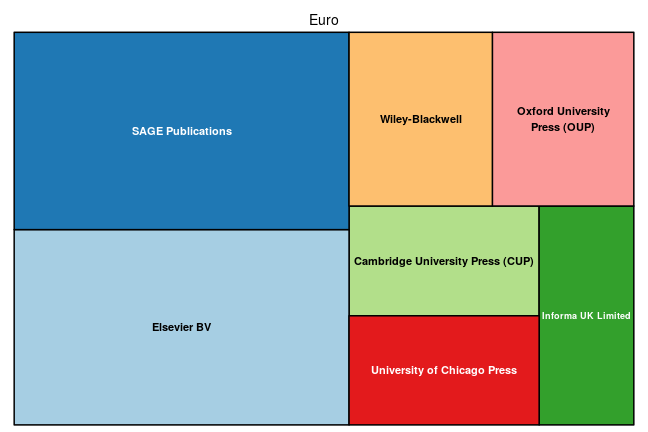
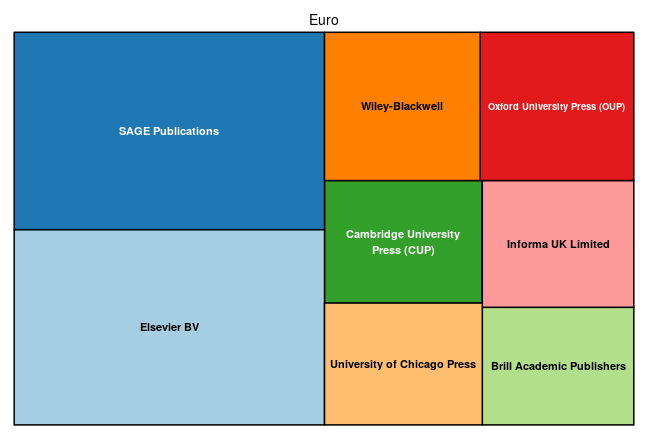
update: giga numbers

diff --git a/_posts/2018-04-23-giga.md b/_posts/2018-04-23-giga.md
@@ -22,13 +22,14 @@ Contact Person is [Jan Lüth](mailto:Jan.Lueth@giga-hamburg.de).
 
 
 
-The initial dataset provided by GIGA covers publication fees for 12 articles published in 2017. Total expenditure amounts to 25 240€ and the average fee is 2 103€.
+The initial dataset provided by GIGA covers publication fees for 13 articles published in 2017. Total expenditure amounts to 27 235€ and the average fee is 2 095€.
 
 
 |                                 | Articles| Fees paid in EURO| Mean Fee paid|
 |:--------------------------------|--------:|-----------------:|-------------:|
 |Elsevier BV                      |        4|              6786|          1696|
 |SAGE Publications                |        3|              6855|          2285|
+|Brill Academic Publishers        |        1|              1995|          1995|
 |Cambridge University Press (CUP) |        1|              2164|          2164|
 |Informa UK Limited               |        1|              2150|          2150|
 |Oxford University Press (OUP)    |        1|              2550|          2550|
